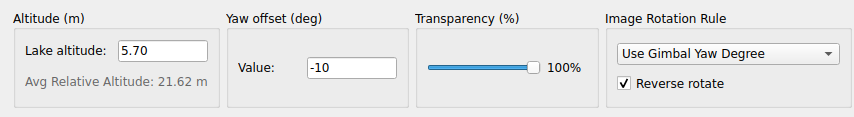
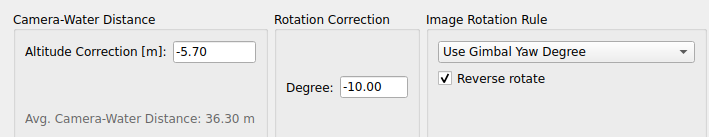
Update readme

diff --git a/bvpp/docs/README-detail.md b/bvpp/docs/README-detail.md
@@ -80,3 +80,8 @@
     <img src="attr_panel.png">
 
     上記の例だと`python bvpp.py .... --alt-correciton -5.7 --yaw-offset -10 --yaw-gimbal-only --yaw-invert`となります。Camera-Water Distance枠に書かれている"Relative Altitude (Exif) stats"というのは、全ての画像のRelative Altitude値の平均・最小・最大値 [m]で、ドローンが認識している飛翔開始地点からの高度です。
+
+7. 画像周辺部の解像力低下の軽減
+レンズの収差などの影響で、画像の周辺部へ行くほど解像力が低下します。`--crop-optimize`オプションを指定すると、複数枚の画像が重なっている領域では、できるだけ各写真の中心寄りの画像を使うように調整します。この手法により解像力低下の影響を軽減できます。このオプションを使用するとプログラムの実行時間が10%ほど長くなり、メモリー消費量は二倍程度増えます。このオプションはディスクに保存されるファイルにだけ反映されます。ウィンドウ内に表示するプレビュー画像には反映されません。
+
+    <img src="crop-optimize.png">
